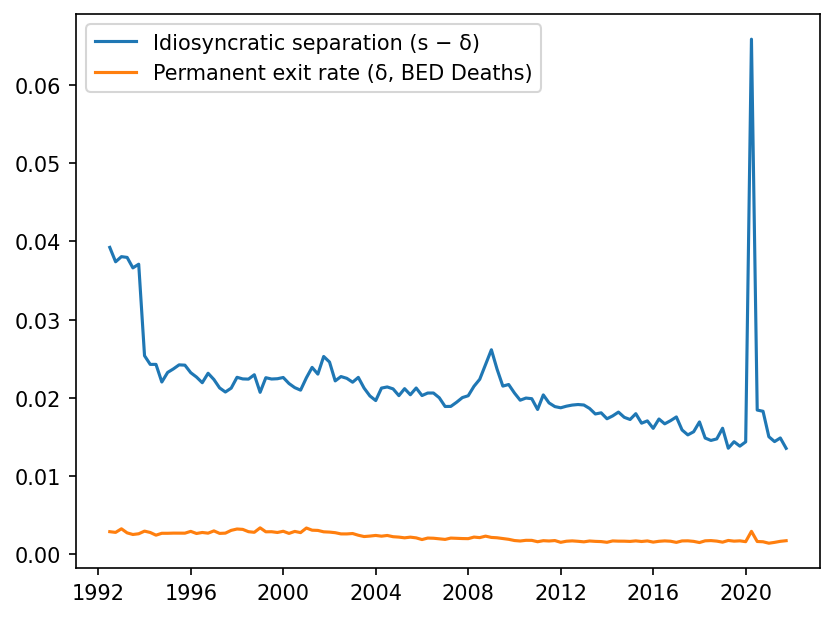
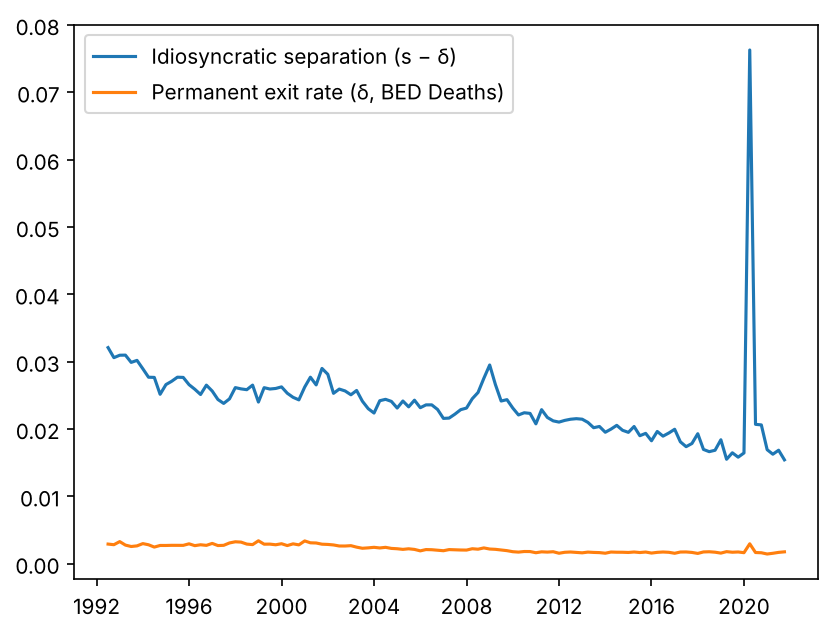
Fix 1994 CPS redesign correction in tau and jf; rerun part6b
- observables.py multiplied pre-1994 UEMPLT5 by 1.16, which doubled the
  January 1994 redesign break instead of removing it. Now multiplies
  post-1994 UEMPLT5 by 1.1 (Shimer, working paper App. A, fn. 27). The ln tau
  jump at 1994Q1 falls from -33.7% to -2.8%.
- Flow formulas moved into shimer_flows(), shared by the full build and a
  new flows-only refresh (rebuild option (b)): only s (tau) and jf in
  raw_data.pkl are recomputed, from UNEMPLOY, CE16OV and UEMPLT5 via the
  FRED CSV endpoint; all other columns are unchanged.
- part6b rerun: monthly s (0.8364, 0.0751); z and delta unchanged. The D14
  independence rule still triggers (z explains 19.1% of the s innovation,
  mostly before 1985).
- Flagged, not fixed: jf timing (u_level[1:] aligns by date, so
  jf_t = u^s_t/u_t rather than Shimer's eq. (4)); tau-bar and tau/jf
  moments to recompute; part8 still uses 1.16.

Claude-Session: https://claude.ai/code/session_01RCdVgLbAS9PV6PfZQqQNTp

diff --git a/Data/observables.py b/Data/observables.py
@@ -3,6 +3,7 @@
 # Imports and Settings #
 #######################
 
+import io
 import time
 import numpy as np
 import pandas as pd
@@ -30,6 +31,83 @@ fred = Fred(api_key='d35aabd7dc07cd94481af3d1e2f0ecf3')
 def save_object(obj, filename):
     with open(filename, 'wb') as output:
         pickle.dump(obj, output, pickle.HIGHEST_PROTOCOL)
+
+
+# ------------------------------------------------------------------------ #
+# 1994 CPS redesign correction (fixed Oct 28, 2026).                        #
+# Since January 1994 the CPS no longer asks the unemployment duration of a  #
+# worker unemployed in consecutive months; the BLS adds the elapsed weeks   #
+# instead. Measured short-term unemployment (UEMPLT5) therefore FELL        #
+# discontinuously in the six rotation groups that are not incoming.         #
+# Shimer, "Reassessing the Ins and Outs of Unemployment" (working-paper     #
+# version, Appendix A and its footnote 27): short-term unemployment was     #
+# 41.6% of unemployment in the full CPS and 41.7% in the incoming rotation  #
+# groups over 1976-93, but 37.9% and 44.2% over 1994-2005. He keeps the     #
+# full sample through 1993 and corrects the data AFTER 1994; multiplying    #
+# UEMPLT5 by a constant 1.1 after 1994 "delivers very similar results".     #
+# We use that constant. (The code before Oct 28 multiplied PRE-1994 values  #
+# by 1.16, which doubled the break instead of removing it.)                 #
+# Published version: Review of Economic Dynamics 15(2), 2012, 127-148,      #
+# doi:10.1016/j.red.2012.02.001; check page and footnote numbers there.     #
+# ------------------------------------------------------------------------ #
+CPS_REDESIGN_DATE   = '1994-01-01'
+CPS_REDESIGN_FACTOR = 1.1
+
+
+def shimer_flows(u_level, e_level, u_short, freq):
+    """
+    Monthly job-finding and separation probabilities by the Shimer (2012)
+    continuous-time method, then quarterly averages. Inputs are the monthly
+    FRED levels UNEMPLOY, CE16OV and UEMPLT5 (thousands). Returns (s, jf):
+    s is the total separation probability tau used downstream.
+
+    The redesign correction is applied to u_short before any formula.
+    """
+    u_short = u_short.copy()
+    u_short.loc[u_short.index >= CPS_REDESIGN_DATE] *= CPS_REDESIGN_FACTOR
+
+    # NOTE (Oct 28, 2026, not yet changed): u_level[1:] keeps its date
+    # labels, so pandas aligns u_next with u_level and jf_t = u_short_t/u_t,
+    # not Shimer's eq. (4), F_t = 1 - (u_{t+1} - u^s_{t+1})/u_t. Pending MS
+    # (context/pending_tasks.md, Q2).
+    u_next  = u_level[1:len(u_level)]
+    jf      = 1 - (u_next - u_short) / u_level
+    jfh     = -np.log(1 - jf)
+    denom   = -np.expm1(-jfh)
+    sh      = (u_short * jfh) / (e_level * denom)
+    s       = 1.0 - np.exp(-sh)
+    s       = s.drop(pd.Timestamp("2020-03-01"), errors='ignore')
+
+    return s.resample(freq).mean().dropna(), jf.resample(freq).mean().dropna()
+
+
+def fetch_fred_csv(series_id):
+    """A FRED series from the public fredgraph CSV endpoint (no API key)."""
+    url = f"https://fred.stlouisfed.org/graph/fredgraph.csv?id={series_id}"
+    resp = requests.get(url, timeout=60)
+    resp.raise_for_status()
+    df = pd.read_csv(io.StringIO(resp.text), index_col=0, parse_dates=True)
+    return pd.to_numeric(df.iloc[:, 0], errors='coerce').dropna()
+
+
+def refresh_flows(path, init, final, freq):
+    """
+    Rebuild option (b), Oct 28, 2026: recompute only s (tau) and jf in an
+    existing raw_data.pkl from UNEMPLOY, CE16OV and UEMPLT5, leaving every
+    other series at its earlier vintage. Prints the change.
+    """
+    dat = pd.read_pickle(path)
+    s, jf = shimer_flows(*(fetch_fred_csv(k).loc[init:final]
+                           for k in ('UNEMPLOY', 'CE16OV', 'UEMPLT5')), freq)
+    for name, new in (('s', s), ('jf', jf)):
+        old = dat[name].copy()
+        dat[name] = new.reindex(dat.index)
+        both = pd.concat([old, dat[name]], axis=1).dropna()
+        for lo, hi in (('1951', '1993'), ('1994', '2019')):
+            b = both.loc[lo:hi]
+            print(f"  {name:2s} {lo}-{hi}: mean {b.iloc[:, 0].mean():.4f} -> "
+                  f"{b.iloc[:, 1].mean():.4f}")
+    return dat
 
 
 def fetch_bed_deaths_national():
@@ -166,35 +244,11 @@ def construct_data(init, final, freq):
 
     # ------------------------------------------------------------------ #
     # Job-finding and separation rates via Shimer (2012) method           #
-    # Continuous-time correction accounts for time-aggregation bias.      #
-    #                                                                      #
-    # 1994 CPS redesign correction: the January 1994 CPS questionnaire    #
-    # redesign artificially increased measured short-term unemployment     #
-    # (UEMPLT5) by approximately 16%.  We multiply UEMPLT5 by 1/1.16 for #
-    # dates before 1994 (equivalently, multiply post-1994 implied s_h by  #
-    # 1.16 if using pre-1994 as baseline — see Shimer 2012 footnote 8 and #
-    # Elsby, Hobijn & Sahin 2013).  We apply the adjustment directly to   #
-    # u_short so all subsequent formulas remain unchanged.                 #
+    # (see shimer_flows for the formulas and the 1994 CPS correction)     #
     # ------------------------------------------------------------------ #
-    u_level = fred.get_series('UNEMPLOY').loc[init:final]
-    e_level = fred.get_series('CE16OV').loc[init:final]
-    u_short = fred.get_series('UEMPLT5').loc[init:final]
-
-    # Apply 1994 CPS redesign correction: scale up pre-1994 short-term
-    # unemployment to be consistent with the post-redesign measurement.
-    u_short.loc[u_short.index < '1994-01-01'] *= 1.16
-
-    u_next  = u_level[1:len(u_level)]
-    jf      = 1 - (u_next - u_short) / u_level
-    jfh     = -np.log(1 - jf)
-    denom   = -np.expm1(-jfh)
-    sh      = (u_short * jfh) / (e_level * denom)
-    s       = 1.0 - np.exp(-sh)
-    s       = s.drop("2020-03-01", errors='ignore')
-
-    # Quarterly averages
-    s  = s.resample(freq).mean().dropna()
-    jf = jf.resample(freq).mean().dropna()
+    s, jf = shimer_flows(fred.get_series('UNEMPLOY').loc[init:final],
+                         fred.get_series('CE16OV').loc[init:final],
+                         fred.get_series('UEMPLT5').loc[init:final], freq)
 
     # ------------------------------------------------------------------ #
     # Labor share and real wage index                                      #
@@ -262,9 +316,15 @@ if __name__ == "__main__":
     final = '2025-10-01'
     freq = 'QS'
     load = False
+    # Oct 28, 2026 (MS, rebuild option (b)): recompute only s and jf in the
+    # existing raw_data.pkl after the CPS-redesign fix. Set to False for a full
+    # rebuild, which re-downloads every series at the current vintage.
+    flows_only = True
 
     # Load or construct data
-    if load:
+    if flows_only:
+        dat = refresh_flows("raw_data.pkl", init, final, freq)
+    elif load:
         dat = pickle.load(open("var_load_list", "rb"))
     else:
         dat = construct_data(init, final, freq)

diff --git a/Data/context/pending_tasks.md b/Data/context/pending_tasks.md
@@ -20,7 +20,7 @@ matched by indirect inference. Full plan: `~/.claude/plans/wiggly-gliding-pelica
 |---|---|---|
 | Q0 | **Presentation, in parallel.** (1) Notation audit of §§2–3 and the appendices; propose renames, apply after MS approves; add a notation table. Known clashes: e_t vs e_{zt}; ρ(N) vs ρ_x; ω vs ω_u vs ω_δ; Φ(θ) vs Φ_θ; η_L vs translog η; s in the SMCD footnote. (2) A "model at a glance" paragraph opening §2. **Done Oct 14:** Tier 1 renames plus the state index s → i (`25c2327`); "model at a glance" paragraph and notation table, Appendix K `app:notation` (`816b73b`). Left as is by choice: m(u,v) vs m_{t+1}, the λ family (HP, marginal utility, λ_u), the ε elasticity family | ✅ |
 | Q1 | **R8 + D1 + PATH B, one regeneration pass.** Plan: [`../Notes/Q1_R8_D1_PATHB_plan.md`](../Notes/Q1_R8_D1_PATHB_plan.md). **Steps 1–7 done on `r8_timing_reposting` (Oct 14 and Oct 18); Tests 1–6 pass.** Step 5: `TARGETS` = D1 (`dest_ann = 0.0320`) + PATH B (`dest_elast_target = 5.0`), b/w = 0.9, x_v = 0.5, `Λr_target = nothing`; δ_e/τ = 0.0873 (`R8_step5_defaults.txt`); D2 settled. Step 6: `SHOCKS_BASE`, `shock_col`, qzflag guard; ten runners use `build_PAR` and named shock columns and all run; Comparison A's CK spec uses δ_e = τ(1−1e-6); legacy sensitivity runners marked unmaintained. Step 7: `R8_step7_baseline.txt` (cor(u,v) grid) and `R8_test6_free_entry.txt` (Test 6 passes under AGS emulation; gap 1.9e-4; found R19). **Closed Oct 19:** branches reconciled (`853b053`: cleaned core, `sigma_determinacy.jl`, `R8_test_timing` on `build_PAR`, JLD2 restored; all 8 R8 programs reproduce, all 10 runners pass); `model_equations.md` "Code status" resolved with the f[k] map; `parameters.md` Λ̄_r replaces α in Θ_e; `pipeline.md` conventions; D11 record; merged into `costly_vacancy_reposting` | ✅ |
-| Q2 | **Trivariate (z, δ, s) VAR** for the shock processes. Extend `part6b_shock_persistence_cyclical.py`; z → δ → s; HP-1600, 1992Q3–2019Q4; off-diagonals excluded from the exogenous processes as for â₂₁. Replaces the separate AR(1) for s (corr(η^δ, η^LD) ≈ 0.49). Output `.txt` for §5.2 (N15). **More urgent after Q1 step 7 (Oct 18):** with the part6b AR(1) s process, cor(u,v) reaches only +0.46 at Λ̄_r = 0.70; the s shock sets the sign, so the Λ̄_r required cannot be read before the VAR. **Scoped Oct 19 (see [D14](decisions.md)).** Gaps in the part6b approach: (1) σ_s is a univariate residual SD, never orthogonalized against z and δ; (2) the double-counting argument used for z → δ does not apply to s, because the model has no endogenous s, so orthogonalizing is a choice (D14), not a correction; (3) BED noise enters s with weight ≈ δ/τ, which builds a spurious negative s–δ correlation; (4) ρ_s absorbs any lagged z, δ → s feedback, which is never reported; (5) the shock processes must come from the same identification as Block B′. **Deliverables:** full A₁ with t-stats, residual correlation matrix, σ_s before and after orthogonalization, the share of s innovation variance explained by z and δ, monthly (ρ, σ); then rerun the Step-7 cor(u,v) grid and report σ(τ) at the new processes. Output `.txt` for §5.2 and an updated `SHOCKS_BASE`. Environment: `Data/environment.yml` (Oct 20). **Done Oct 20:** `part6c_shock_var_trivariate.py` → `shock_var_trivariate.txt/.csv`; `Q2_shock_processes_check.jl/.txt`. Results (findings.md "Q2"): the s innovation is nearly orthogonal (1.1 % explained), so concern (1) is rejected; ρ_s/σ_s fall to 0.8387/0.0773 because lagged δ predicts s (t = 2.81). **cor(u,v) is unchanged** (+0.483 at Λ̄_r = 0.70, +0.114 at 0.55; floor 0.5): the Beveridge gap is not a shock-process artifact. **Still owed:** (i) adopt (a) in `SHOCKS_BASE` (with `SHK` in `sigma_determinacy.jl`) after MS approval, and rerun the R8 programs whose outputs depend on it; (ii) §5.2 text. **Oct 20 (MS): S13 (end 2019Q4, cut before filtering; applied to part6b/6c) and S14 (window option B).** **Next:** build the S14 processes (a (z, s) VAR on 1951–2019 with s from τ before 1992; the δ equation on 1992–2019), then refresh `SHOCKS_BASE` and rerun the `Q2_*.jl` programs. Block M targets move to the same windows (pre-pandemic cor(u,v) ≈ −0.93)  **Oct 28: S14 processes built in `part6b_shock_persistence_cyclical.py` (`shock_calibration.txt`): monthly z (0.9121, 0.0128), δ (0.5824, 0.0663), s (0.8418, 0.0812). The D14 independence rule triggers on 1951–2019 (z explains 15.7 % of the s innovation, all from before 1985); D14 reopened, MS to choose. Then refresh `SHOCKS_BASE` and rerun the `Q2_*.jl` programs (needs MS approval).**  **⚠ Blocker found Oct 28: the 1994 CPS-redesign correction in `observables.py:185` is applied in the wrong direction, which puts a large level break in τ (and jf) at 1994Q1 (findings.md, Q2 S14 entry). Fix it, rebuild `raw_data.pkl`, then rerun part6b before deciding D14.** | ⏳ τ fix, D14, then SHOCKS_BASE |
+| Q2 | **Trivariate (z, δ, s) VAR** for the shock processes. Extend `part6b_shock_persistence_cyclical.py`; z → δ → s; HP-1600, 1992Q3–2019Q4; off-diagonals excluded from the exogenous processes as for â₂₁. Replaces the separate AR(1) for s (corr(η^δ, η^LD) ≈ 0.49). Output `.txt` for §5.2 (N15). **More urgent after Q1 step 7 (Oct 18):** with the part6b AR(1) s process, cor(u,v) reaches only +0.46 at Λ̄_r = 0.70; the s shock sets the sign, so the Λ̄_r required cannot be read before the VAR. **Scoped Oct 19 (see [D14](decisions.md)).** Gaps in the part6b approach: (1) σ_s is a univariate residual SD, never orthogonalized against z and δ; (2) the double-counting argument used for z → δ does not apply to s, because the model has no endogenous s, so orthogonalizing is a choice (D14), not a correction; (3) BED noise enters s with weight ≈ δ/τ, which builds a spurious negative s–δ correlation; (4) ρ_s absorbs any lagged z, δ → s feedback, which is never reported; (5) the shock processes must come from the same identification as Block B′. **Deliverables:** full A₁ with t-stats, residual correlation matrix, σ_s before and after orthogonalization, the share of s innovation variance explained by z and δ, monthly (ρ, σ); then rerun the Step-7 cor(u,v) grid and report σ(τ) at the new processes. Output `.txt` for §5.2 and an updated `SHOCKS_BASE`. Environment: `Data/environment.yml` (Oct 20). **Done Oct 20:** `part6c_shock_var_trivariate.py` → `shock_var_trivariate.txt/.csv`; `Q2_shock_processes_check.jl/.txt`. Results (findings.md "Q2"): the s innovation is nearly orthogonal (1.1 % explained), so concern (1) is rejected; ρ_s/σ_s fall to 0.8387/0.0773 because lagged δ predicts s (t = 2.81). **cor(u,v) is unchanged** (+0.483 at Λ̄_r = 0.70, +0.114 at 0.55; floor 0.5): the Beveridge gap is not a shock-process artifact. **Still owed:** (i) adopt (a) in `SHOCKS_BASE` (with `SHK` in `sigma_determinacy.jl`) after MS approval, and rerun the R8 programs whose outputs depend on it; (ii) §5.2 text. **Oct 20 (MS): S13 (end 2019Q4, cut before filtering; applied to part6b/6c) and S14 (window option B).** **Next:** build the S14 processes (a (z, s) VAR on 1951–2019 with s from τ before 1992; the δ equation on 1992–2019), then refresh `SHOCKS_BASE` and rerun the `Q2_*.jl` programs. Block M targets move to the same windows (pre-pandemic cor(u,v) ≈ −0.93)  **Oct 28: S14 processes built in `part6b_shock_persistence_cyclical.py` (`shock_calibration.txt`): monthly z (0.9121, 0.0128), δ (0.5824, 0.0663), s (0.8418, 0.0812). The D14 independence rule triggers on 1951–2019 (z explains 15.7 % of the s innovation, all from before 1985); D14 reopened, MS to choose. Then refresh `SHOCKS_BASE` and rerun the `Q2_*.jl` programs (needs MS approval).**  **Oct 28: τ fixed** (1994 CPS correction now ×1.1 after 1994, `observables.py`; `raw_data.pkl` s and jf only, option (b)); part6b rerun: s (0.8364, 0.0751) monthly; D14 rule still triggers (19.1 %). **Owed:** MS decides D14 and the jf timing bug (findings.md); recompute τ̄ and the τ/jf moments; align `part8` (1.16); move the FRED key out of `observables.py:24` and rotate it. | ⏳ D14, jf timing, then SHOCKS_BASE |
 | Q3 | **Targets.** Block M: refresh `second_moments.jl` (λ = 1,600, all seven series) plus lead/lag cross-correlations of δ_e with u and v; Ω_m via `moments_bootstrap.py`. Block B′: a VAR in (z, δ, s, u, v), δ- and s-shock responses of u and v at h = 0–12, Ω by VAR bootstrap; model side = the same VAR on simulated data. Validation set: Bartik δ→u h = 0–2, δ→v h = 4–6, severity placebo, LD→v | ❌ after Q1, Q2 |
 | Q4 | **Identification check** (extends R2). Jacobian of [M; B′] w.r.t. Θ_e = {b, ξ⁻¹, x_v, ω_δ, p_0, α, (σ)} at the calibrated point: rank, condition number, loadings; Monte Carlo recovery. Weakly identified parameters are fixed on a reported grid | ❌ after Q3 |
 | Q5 | **Hypotheses H1–H5, then calibrated mechanism comparisons over a sensitivity grid.** H1 δ → negative u–v comovement and persistent u. H2 α > 0 necessary and sufficient for cor(u,v) ≈ −0.8. H3 business formation adds δ→u persistence beyond AGS. H4 endogenous exit is minor. H5 reactivation amplifies z and s, damps δ. Grid: ξ⁻¹ ∈ {0.5, 1, 2}, b/w ∈ {0.7, 0.8, 0.9}, ω_δ, and α bracketing cor(u,v). Comparisons A–D plus α → 0; `mechanism_stats.jl`. **Gate for D12 / simple-model-first:** agree a threshold first (e.g. the C-vs-AGS gap moves the δ→u half-life by < 25 % or cor(u,v) by < 0.1 ⇒ lead with the simple model) | ❌ after Q1, Q2 |

diff --git a/Data/context/findings.md b/Data/context/findings.md
@@ -874,24 +874,13 @@ count.
   (option B) processes are built.
 
 **Q2: S14 shock processes (`part6b_shock_persistence_cyclical.py` → `shock_calibration.txt/.csv`, Oct 28).**
-> ⚠ **Provisional: τ has a level break at 1994Q1 (CPS redesign) that `observables.py` makes worse.**
-> `observables.py:185` multiplies *pre*-1994 UEMPLT5 by 1.16. Its own comment (l. 173) says to
-> multiply by 1/1.16, and `part8_shimer_national.py` instead scales *post*-1994 values by 1.16.
-> In `separation_decomposition.png`, τ falls from about 4 % to about 2.7 % in one quarter. The HP
-> filter turns the break into spurious cycles of about +15 / −20 log points around 1993–95.
-> - Contaminated: every τ- and s-based number below, every earlier s process (including
->   `SHOCKS_BASE`, whose 1992–2019 window contains the break), the job-finding rate (`jf` uses the
->   same u_short), and the τ̄ target.
-> - The pre-1985 z–s result is far from the break and probably survives, but it must be rerun.
-> - Fix in `observables.py`, rebuild `raw_data.pkl` (needs the FRED key), then rerun part6b.
->   Verify the correction factor and direction against Shimer (2012) and Elsby, Michaels and
->   Solon (2009) through LibKey first (N11–N14).
 Three steps:
 - z: AR(1) on 1951Q1–2019Q4.
 - δ: (z, δ) VAR on 1992Q3–2019Q4, keeping ρ_δ and σ_δ ⊥ z.
 - s: AR(1) on the spliced 1951–2019 series, with σ_s not purged.
 
 Splice: before 1992Q3, s = (τ − δ̄)/(1 − δ̄), with δ̄ = 0.00278, the mean of the first 10 BED quarters.
+Numbers are after the τ fix below.
 
 Monthly (ρ, σ):
 
@@ -899,17 +888,28 @@ Monthly (ρ, σ):
 |---|---|---|
 | z | (0.9121, 0.0128) | (0.902, 0.0092) |
 | δ | (0.5824, 0.0663) | (0.592, 0.0669) |
-| s | (0.8418, 0.0812) | (0.8741, 0.0854) |
+| s | (0.8364, 0.0751) | (0.8741, 0.0854) |
 
 - **σ_z rises 39 %.** The longer window adds the pre-1985 volatility (sub-window σ_Q 0.0093 against 0.0058).
 - **The splice is benign.**
-  - The log-linear weights are k_pre = 1.067, k_post = 1.106 and w = 0.104, where w is the weight on δ's cycle that is lost before 1992.
-  - The early anchor cuts the step in ln s at 1992Q3 from −1.57 % to −0.29 %.
-  - On the BED window, the constant-δ̄ construction gives ρ_Q 0.620 / σ_Q 0.0548, against 0.591 / 0.0538 for the true s.
-- **⚠ The D14 independence rule triggers.** The z innovation explains 15.7 % of the s innovation (corr −0.40, t = −6.59, 1951–2019). This is entirely a pre-1985 fact:
-  - 1951–84: corr −0.55, R² 30 %, loading −3.27.
-  - 1985–2019: corr −0.12, R² 1.3 %, t = −1.39.
-  - τ's residual shows the same correlation, so the splice does not produce it.
+  - The log-linear weights are k_pre = 1.084, k_post = 1.096 and w = 0.093.
+  - The early anchor cuts the step in ln s at 1992Q3 from −1.93 % to −0.36 %.
+  - On the BED window, the constant-δ̄ construction gives ρ_Q 0.544 / σ_Q 0.0452, against 0.506 / 0.0436 for the true s.
+- **⚠ The D14 independence rule triggers.** The z innovation explains 19.1 % of the s innovation (corr −0.44, t = −6.81, 1951–2019). It comes mostly from before 1985:
+  - 1951–84: corr −0.54, R² 29 %, loading −3.24.
+  - 1985–2019: corr −0.19, R² 3.6 %, t = −2.04.
+  - τ's residual shows the same correlation, so the splice does not produce it. D14 is reopened, pending MS.
 - **Ljung-Box rejects the AR(1) for z, δ and s on these windows** (p ≤ 0.03 at lag 4).
-- D14 is reopened. Pending MS: the options are listed under D14 in `decisions.md`, Oct 28 update.
 - `part6c_shock_var_trivariate.py` imports part6b, so its committed outputs are pre-S14 and would change if rerun.
+
+**τ: the 1994 CPS-redesign correction was applied in the wrong direction (fixed Oct 28).**
+- **The bug:** `observables.py` multiplied *pre*-1994 UEMPLT5 by 1.16. The redesign *lowers* measured short-term unemployment from January 1994, so the correction belongs *after* 1994. The old code doubled the break: ln τ jumped −33.7 % at 1993Q4 → 1994Q1, against −2.8 % now.
+- **Source:** Shimer, "Reassessing the Ins and Outs of Unemployment", working paper, App. A and fn. 27, multiplies post-1994 UEMPLT5 by 1.1. Published version: *RED* 15(2), 2012, doi:10.1016/j.red.2012.02.001; its page and footnote numbers are unchecked.
+- **Fix:** `CPS_REDESIGN_FACTOR = 1.1` from 1994-01 in `shimer_flows`.
+- **Rebuild option (b) (MS):** only `s` (τ) and `jf` in `raw_data.pkl` were recomputed, from UNEMPLOY, CE16OV and UEMPLT5 (FRED CSV, Oct 28 vintage). Today's vintage reproduces the old columns exactly under the old code, and every other column is unchanged.
+- **τ means:** 1951–93 0.0439 → 0.0356 (Shimer's figure: about 3.5 %); 1994–2019 0.0225 → 0.0253.
+- **jf means:** 1951–93 0.532 → 0.459; 1994–2019 0.327 → 0.360.
+- **Still owed:**
+  - The τ̄ = 3.10 %/month target and every moment that uses τ or jf (`observables_moments.py`, Block M) must be recomputed.
+  - `part8_shimer_national.py` uses 1.16 post-1994, the right direction but a different factor.
+- **Open bug (not fixed; MS to decide):** `u_level[1:]` keeps its date labels, so pandas aligns it with u_t, and jf_t = u^s_t/u_t rather than Shimer's eq. (4), F_t = 1 − (u_{t+1} − u^s_{t+1})/u_t. Means are close (0.402 against 0.401, 1951–2025 monthly), but the correlation is 0.92 monthly and 0.97 quarterly. τ inherits the one-month misalignment.

diff --git a/Data/context/decisions.md b/Data/context/decisions.md
@@ -60,9 +60,10 @@ builds a spurious *negative* s–δ innovation correlation. Only the joint syste
   Oct 20 "take (a)". ρ_s now comes from the univariate AR(1), not the VAR diagonal.
 - **Rule fixed in advance:** revisit if the z innovation explains ≥ 10 % of the s innovation
   and |t| ≥ 2.
-- **Result on the S14 window (1951–2019), provisional until the τ 1994 break is fixed (findings.md): the rule triggers.** R² = 15.7 %, corr −0.40,
-  t = −6.59. It is a pre-1985 fact: 1951–84 R² 30 % (corr −0.55, loading −3.27); 1985–2019
-  R² 1.3 % (t = −1.39). τ shows the same pattern, so the splice does not cause it.
+- **Result on the S14 window (1951–2019), after the τ fix: the rule triggers.** R² = 19.1 %,
+  corr −0.44, t = −6.81. Mostly a pre-1985 fact: 1951–84 R² 29 % (corr −0.54, loading −3.24);
+  1985–2019 R² 3.6 % (corr −0.19, t = −2.04). τ shows the same pattern, so the splice does not
+  cause it.
 - **Open (MS), options:**
   - (i) keep independent s and report the missing z–s comovement;
   - (ii) load s on ε^z, i.e. s_t = ρ_s s_{t−1} + b·ε^z_t + ε^s_t;
